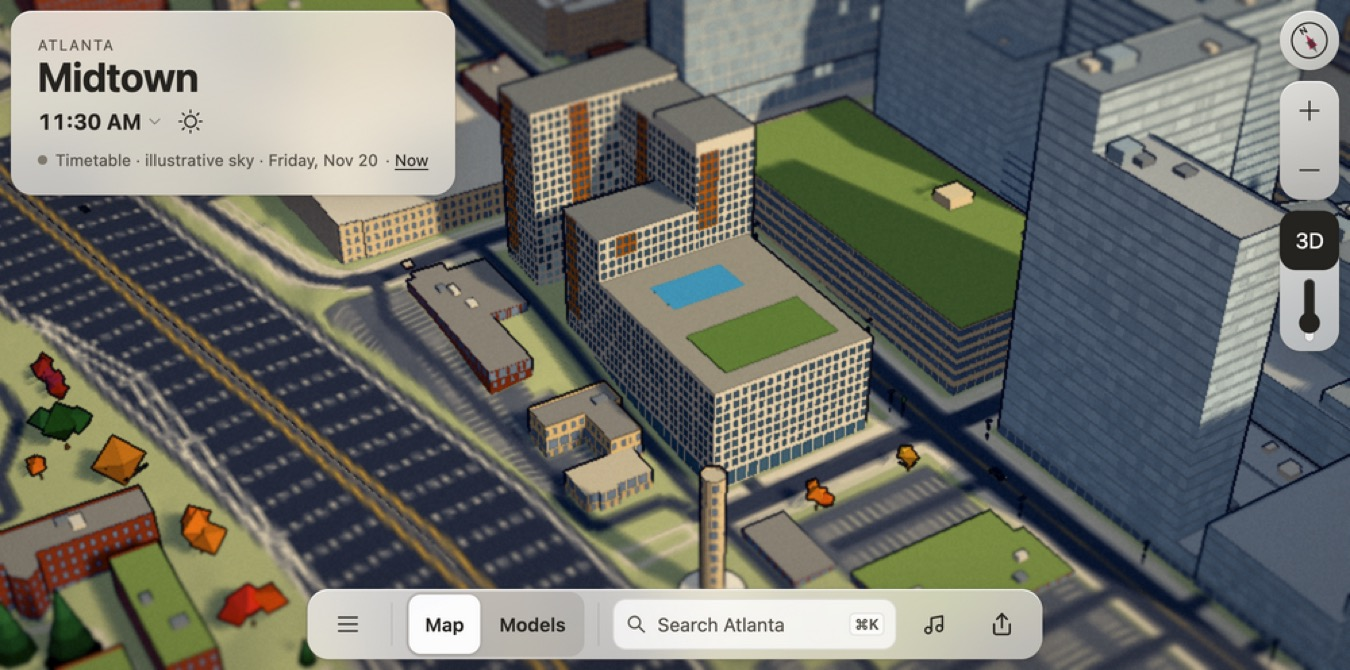
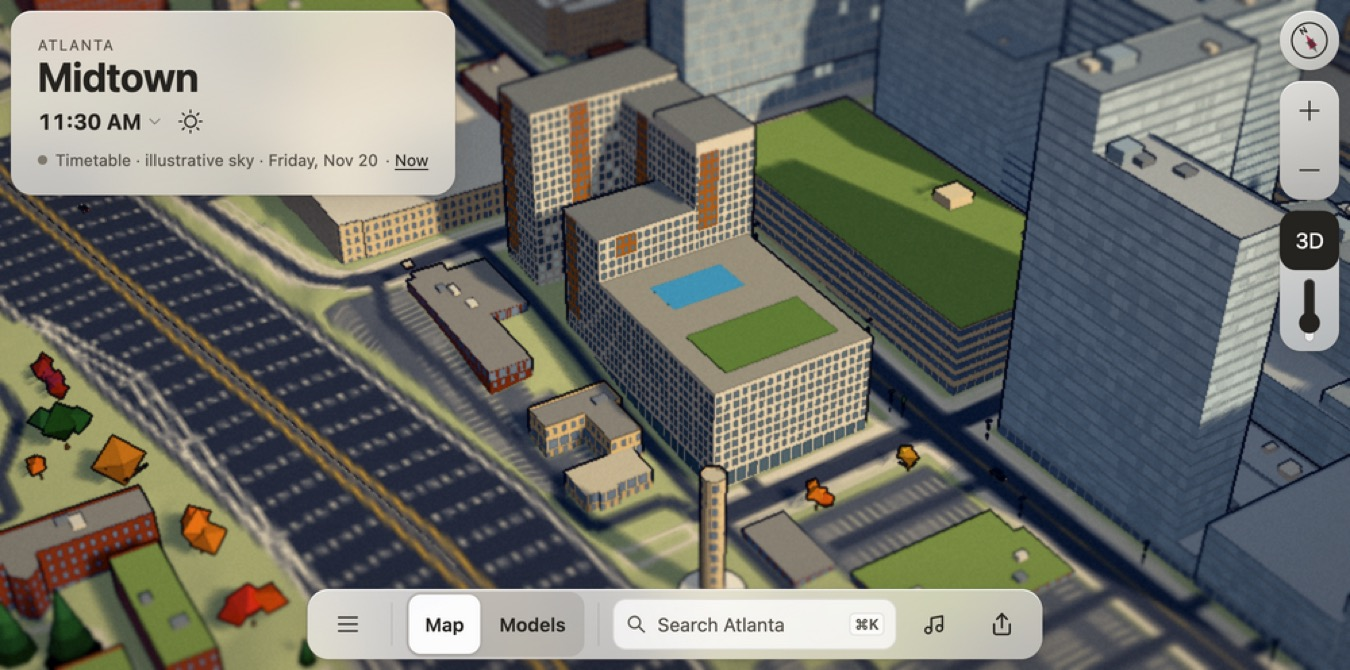
Bring The Standard's glass under the provisional palette
Panes #5d707b/#647782 -> #7b888f/#7b8c96 (S 14-18%, V 56-59%) so sunlit panes
render V >= 40; storefront #5a7584/#617c8a -> #6a7b84/#6e818a (S 20%).

Changed region(s): [[0.5289, 0.5075, 0.6533, 0.6866], [0.4356, 0.209, 0.56, 0.4179], [0.4044, 0.1493, 0.4356, 0.2985]]

diff --git a/web/src/city/the-standard.ts b/web/src/city/the-standard.ts
@@ -57,8 +57,8 @@ export function createTheStandard(buildings: VBuilding[], site: VBuilding, grid:
     return Math.max(datum, ...masses.filter(m => inside(mx, mz, m.ring)).map(m => m.top));
   };
   const precast = '#d9d6cf', amber = '#b8743f', roofColor = '#8e8f8b';
-  const punched = ['#5d707b', '#647782'];
-  const storefront = ['#5a7584', '#617c8a'];
+  const punched = ['#7b888f', '#7b8c96'];
+  const storefront = ['#6a7b84', '#6e818a'];
 
   for (const [index, { ring, top }] of masses.entries()) {
     const isGarage = index === 3;
